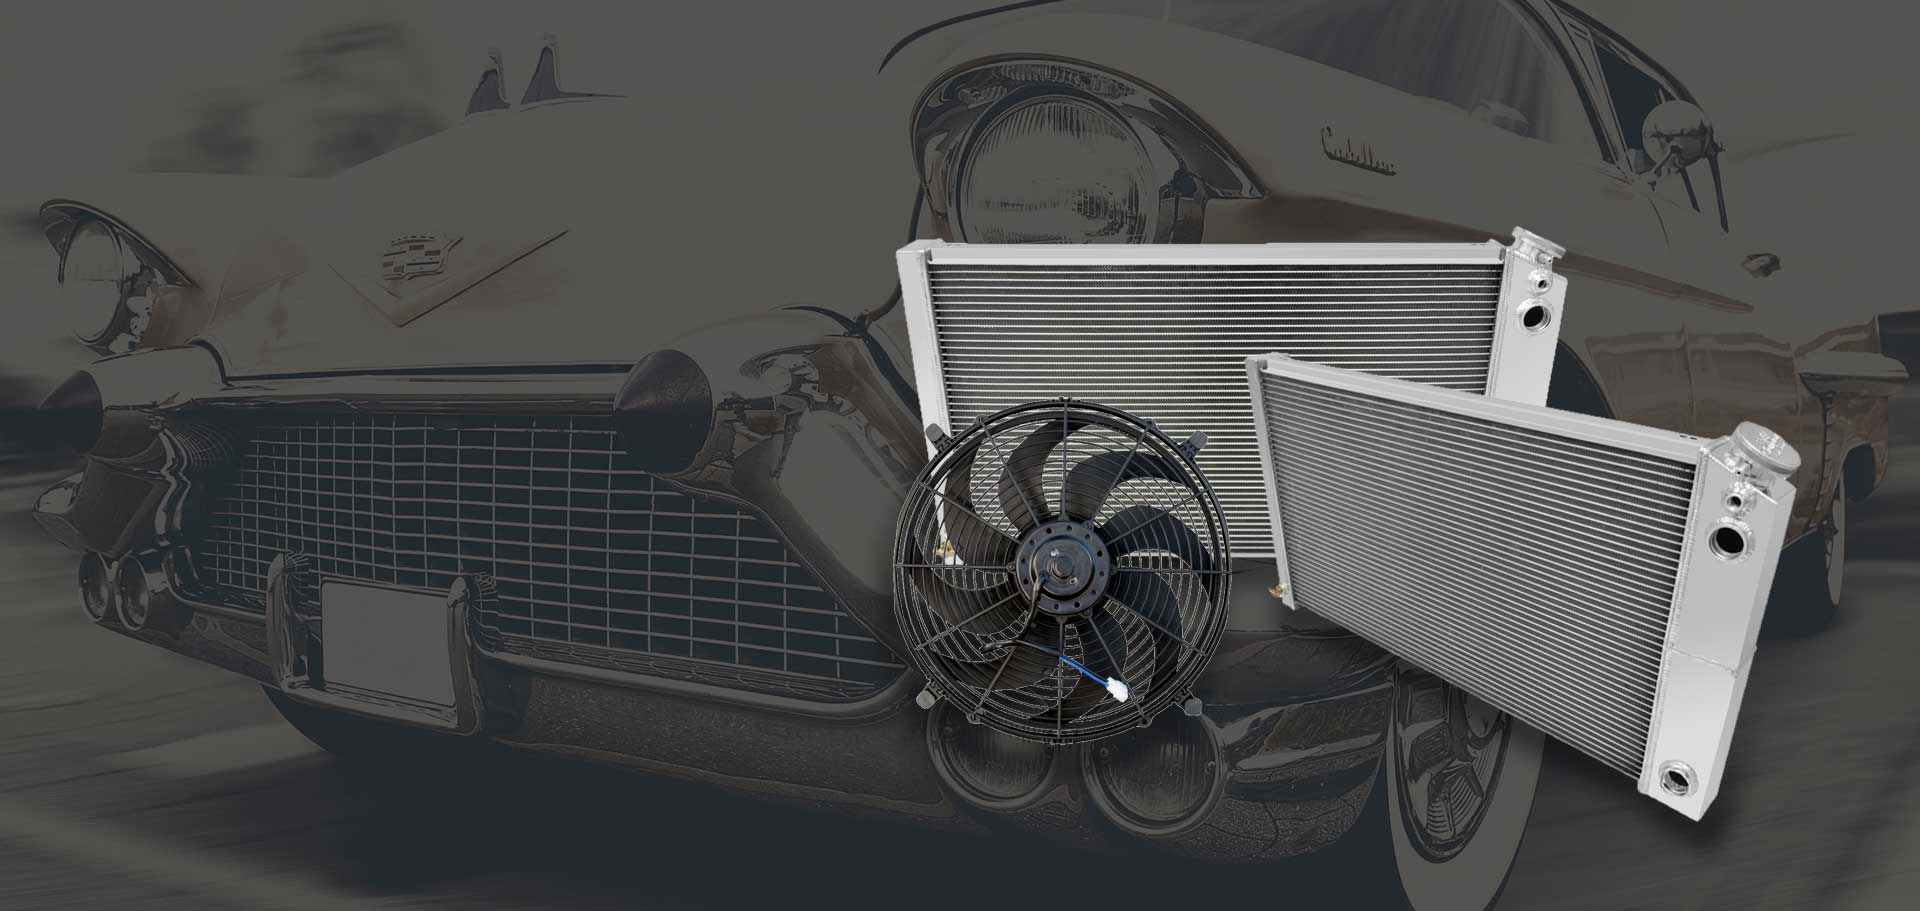
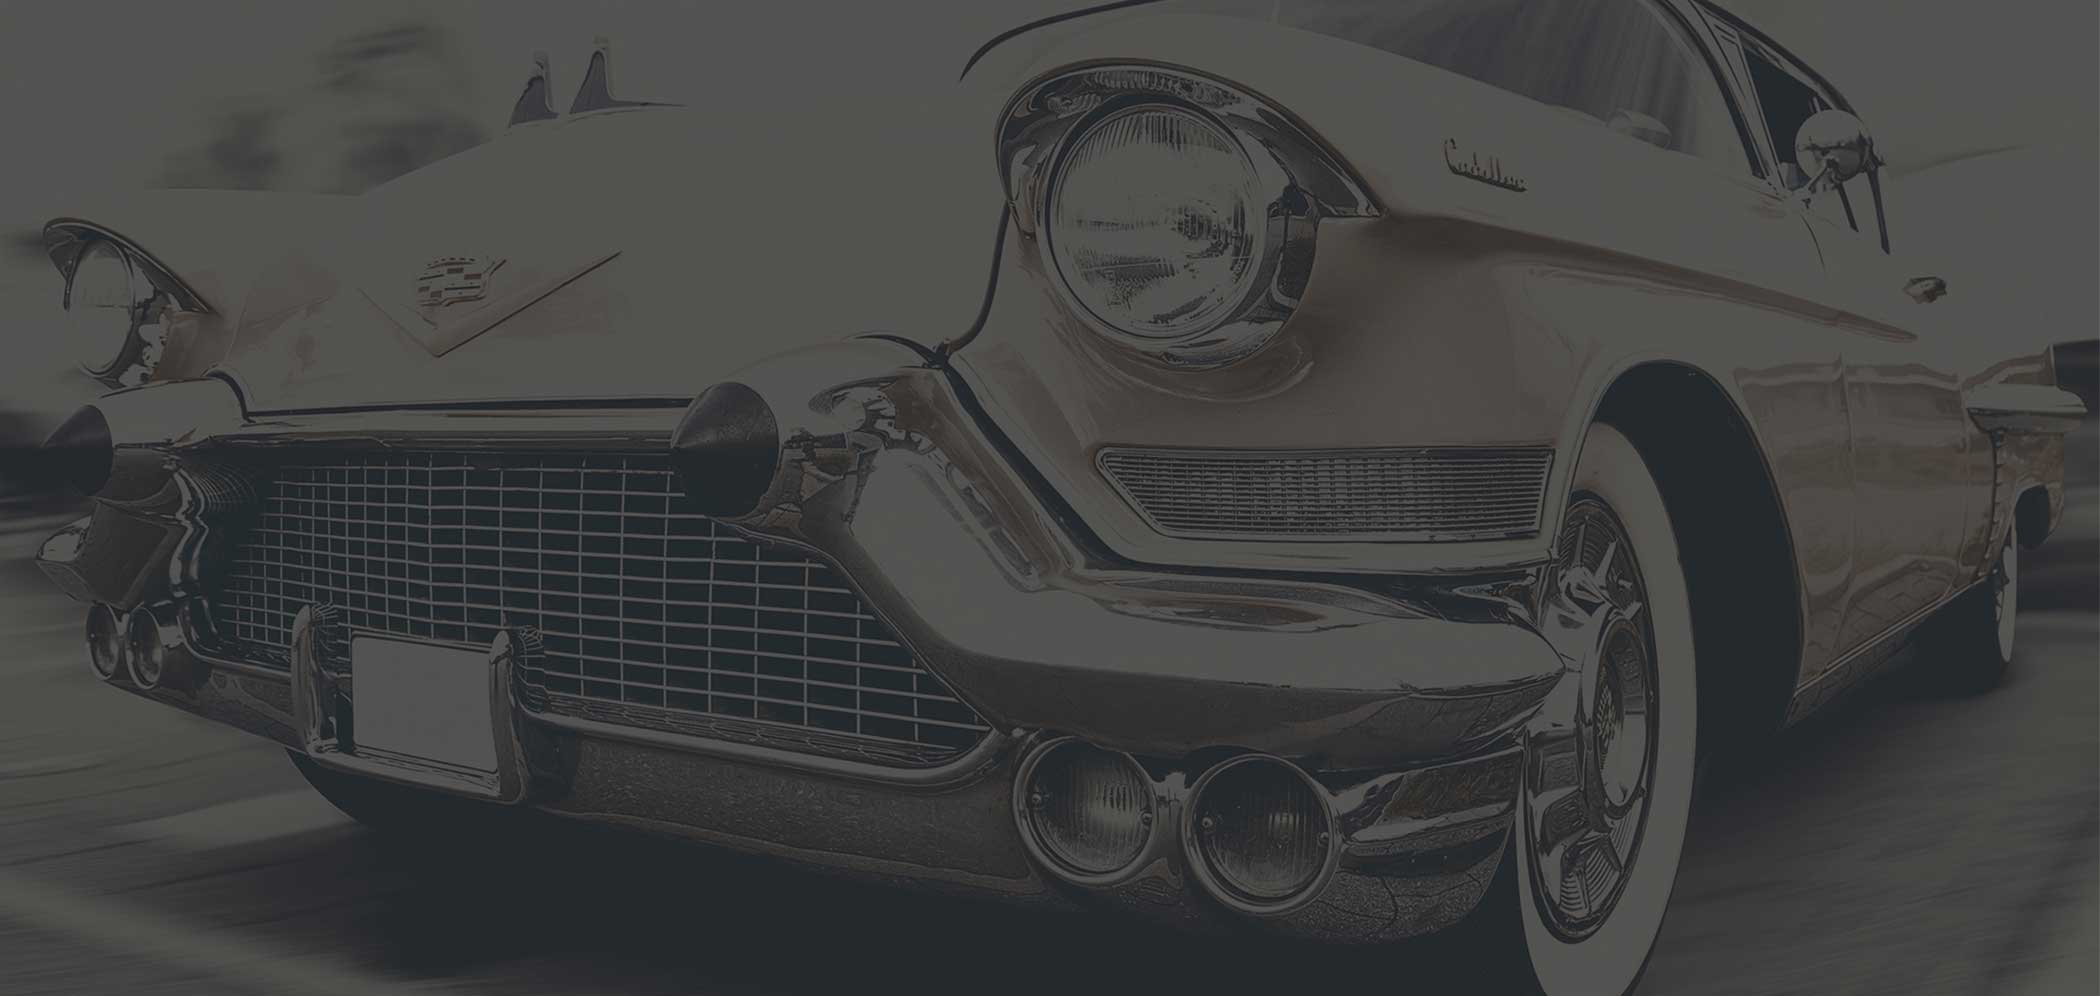
Slider Image change

Changed region(s): [[0.4375, 0.2459, 0.9375, 0.9221]]

diff --git a/resources/views/index.blade.php b/resources/views/index.blade.php
@@ -10,7 +10,7 @@
   <div id="carouselExampleControls" class="carousel slide" data-bs-ride="carousel">
     <div class="carousel-inner">
       <div class="carousel-item active">
-        <img src="{{asset('images/banner.jpg')}}" class="img-fluid" alt="...">
+        <img src="{{asset('images/banner-2.jpg')}}" class="img-fluid" alt="...">
         <div class="carousel-caption">
           <div class="container">
             <div class="row">
